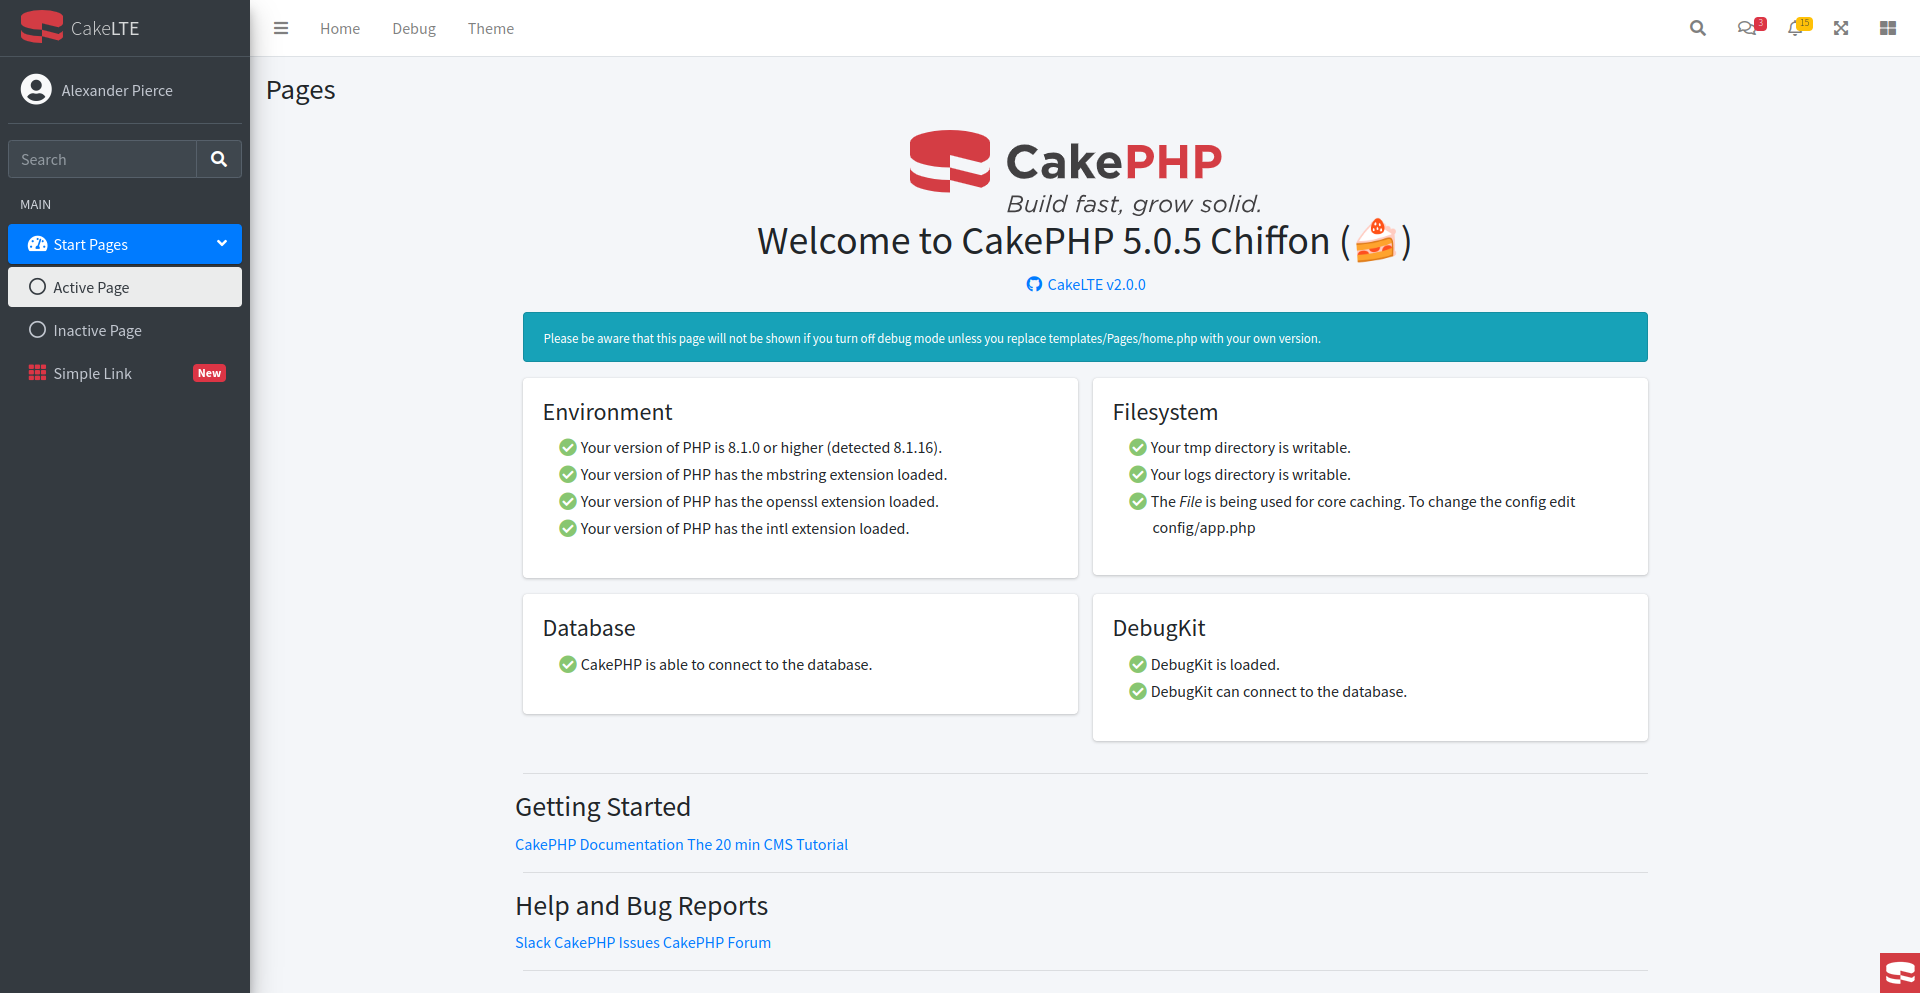
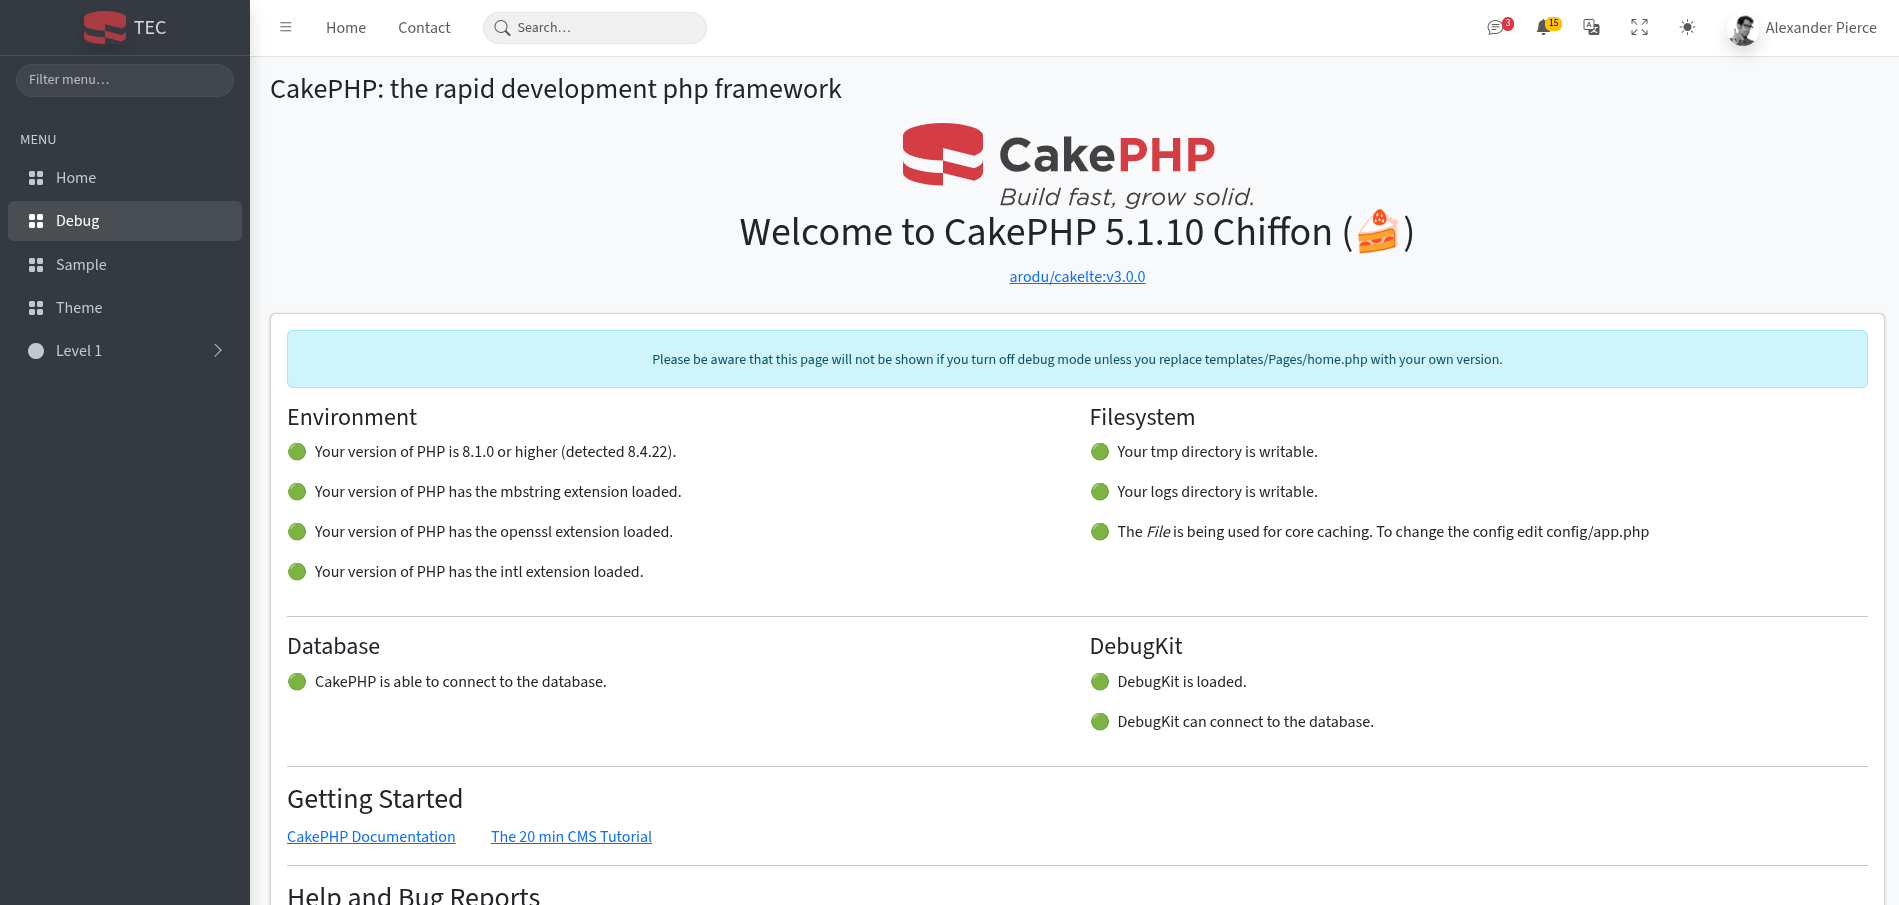
feat: add dark mode debug page screenshot and remove top navigation debug screenshot

diff --git a/README.md b/README.md
@@ -82,6 +82,8 @@ class AppView extends View
 
 ![Page Debug with default layout](docs/page-debug_default.png)
 
+![Page Debug with default dark layout](docs/page-debug_default_darkmode.png)
+
 ## Next steps
 
 For the full usage and configuration details, read the
